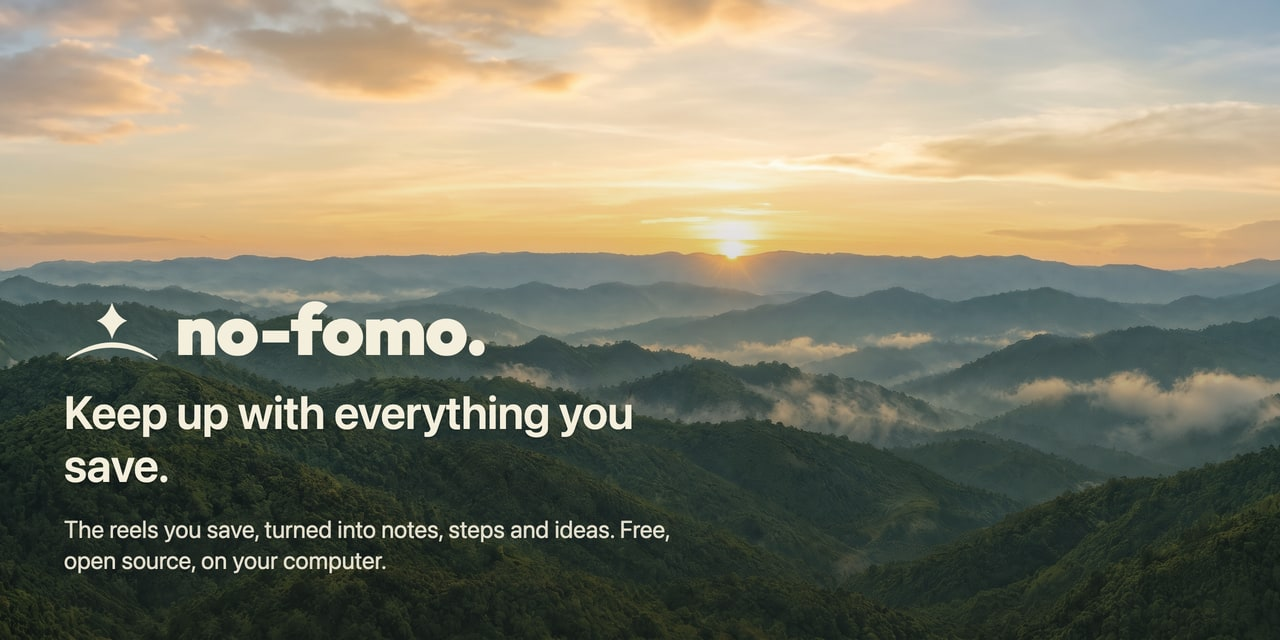
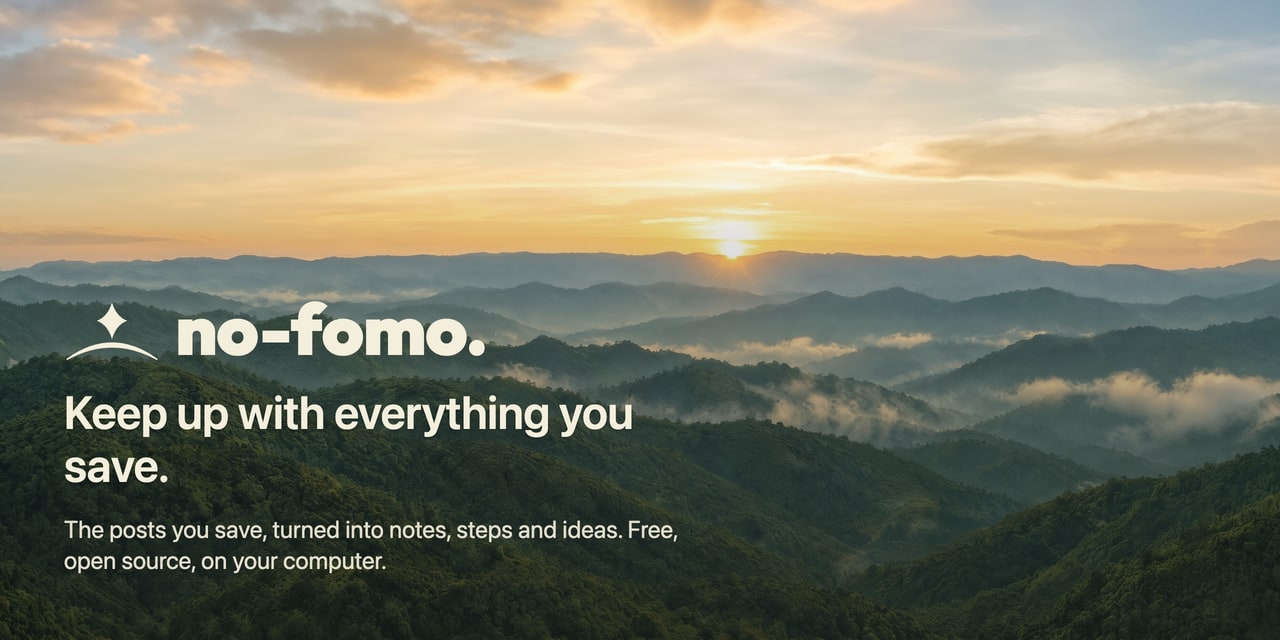
docs: posts, not reels, in the message

Changed region(s): [[0.0938, 0.8125, 0.5312, 0.8438]]

diff --git a/docs/RELEASE.md b/docs/RELEASE.md
@@ -89,7 +89,7 @@ Check first:
 Then, from a terminal with `gh` logged in as the org owner:
 
 ```bash
-gh repo edit no-fomo-org/no-fomo-social --description "Keep up with everything you save. The Instagram reels you save, turned into notes, steps and ideas on your own computer." --homepage https://no-fomo.ai --enable-discussions --enable-issues --delete-branch-on-merge
+gh repo edit no-fomo-org/no-fomo-social --description "Keep up with everything you save. The Instagram posts you save, turned into notes, steps and ideas on your own computer." --homepage https://no-fomo.ai --enable-discussions --enable-issues --delete-branch-on-merge
 ```
 
 ```bash
@@ -157,7 +157,7 @@ git tag v0.1.0 && git push origin v0.1.0
 - **Category:** Productivity. **Language:** English.
 - **Description:**
 
-  Keep up with everything you save. no-fomo-social turns the Instagram reels you save into notes, steps and ideas. This extension is the bridge between instagram.com and the free no-fomo-social app that runs on your computer.
+  Keep up with everything you save. no-fomo-social turns the Instagram posts you save into notes, steps and ideas. This extension is the bridge between instagram.com and the free no-fomo-social app that runs on your computer.
 
   What it does:
   • Syncs your saved posts and collections into the no-fomo-social app on your computer.

diff --git a/README.md b/README.md
@@ -5,7 +5,7 @@
 <h3 align="center">Keep up with everything you save.</h3>
 
 <p align="center">
-  You save reels faster than you can watch them. no-fomo-social watches them for you and turns each one into notes, steps and ideas you can use.<br>
+  You save posts faster than you can watch them. no-fomo-social watches them for you and turns each one into notes, steps and ideas you can use.<br>
   Free, open source, and it runs on your computer.
 </p>
 
